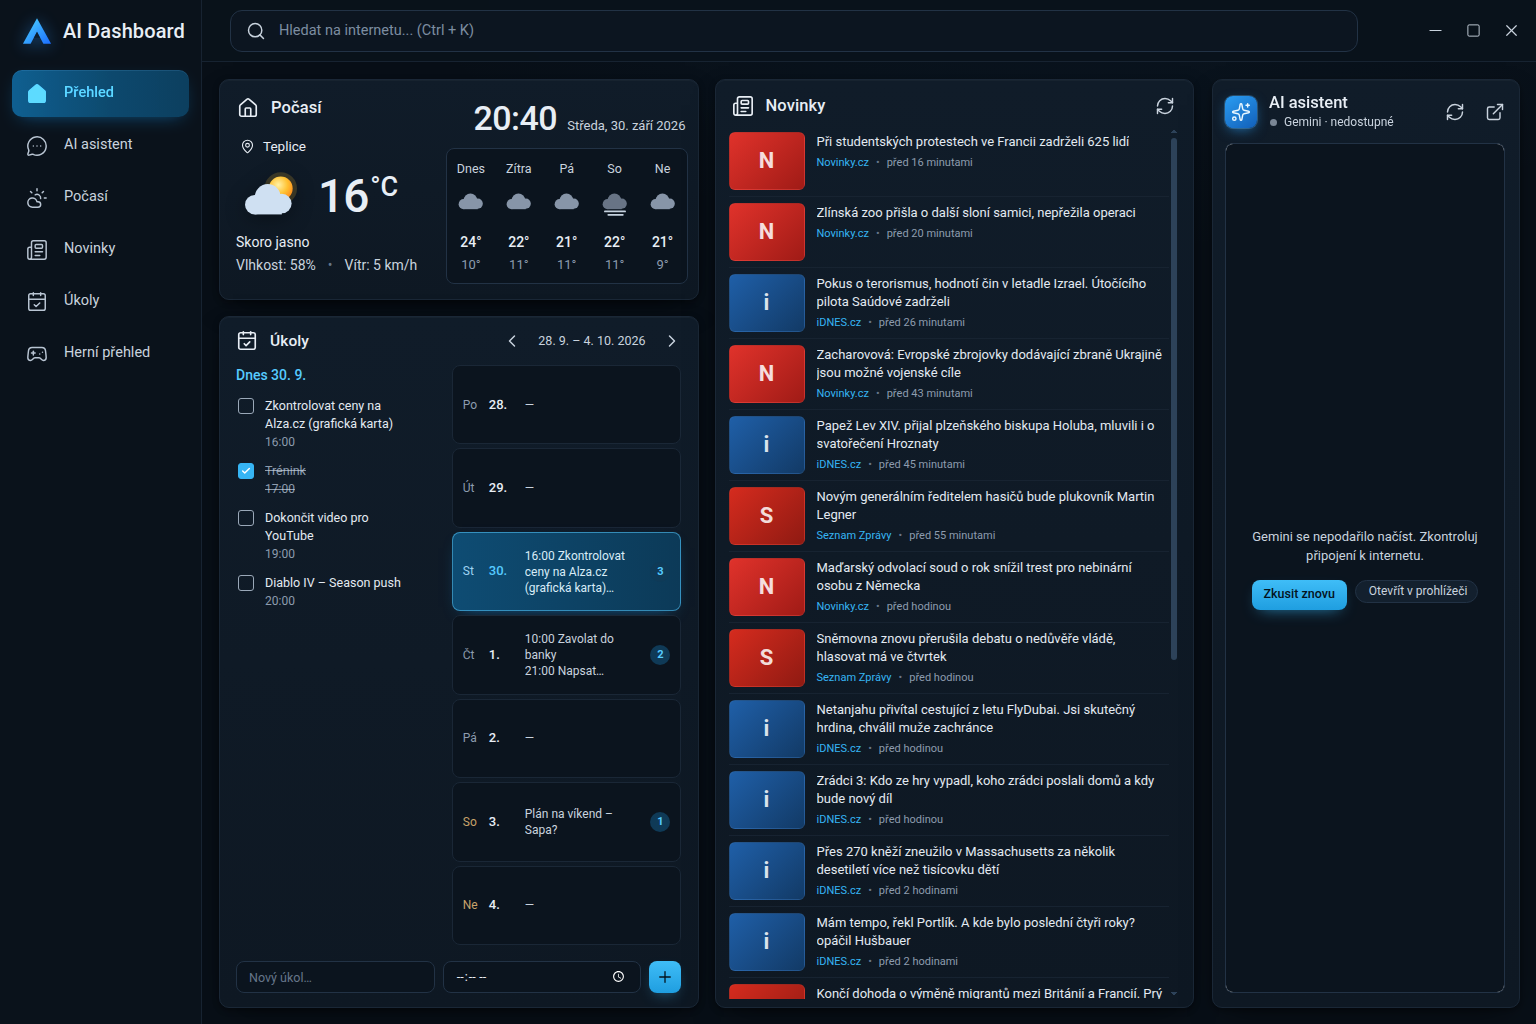
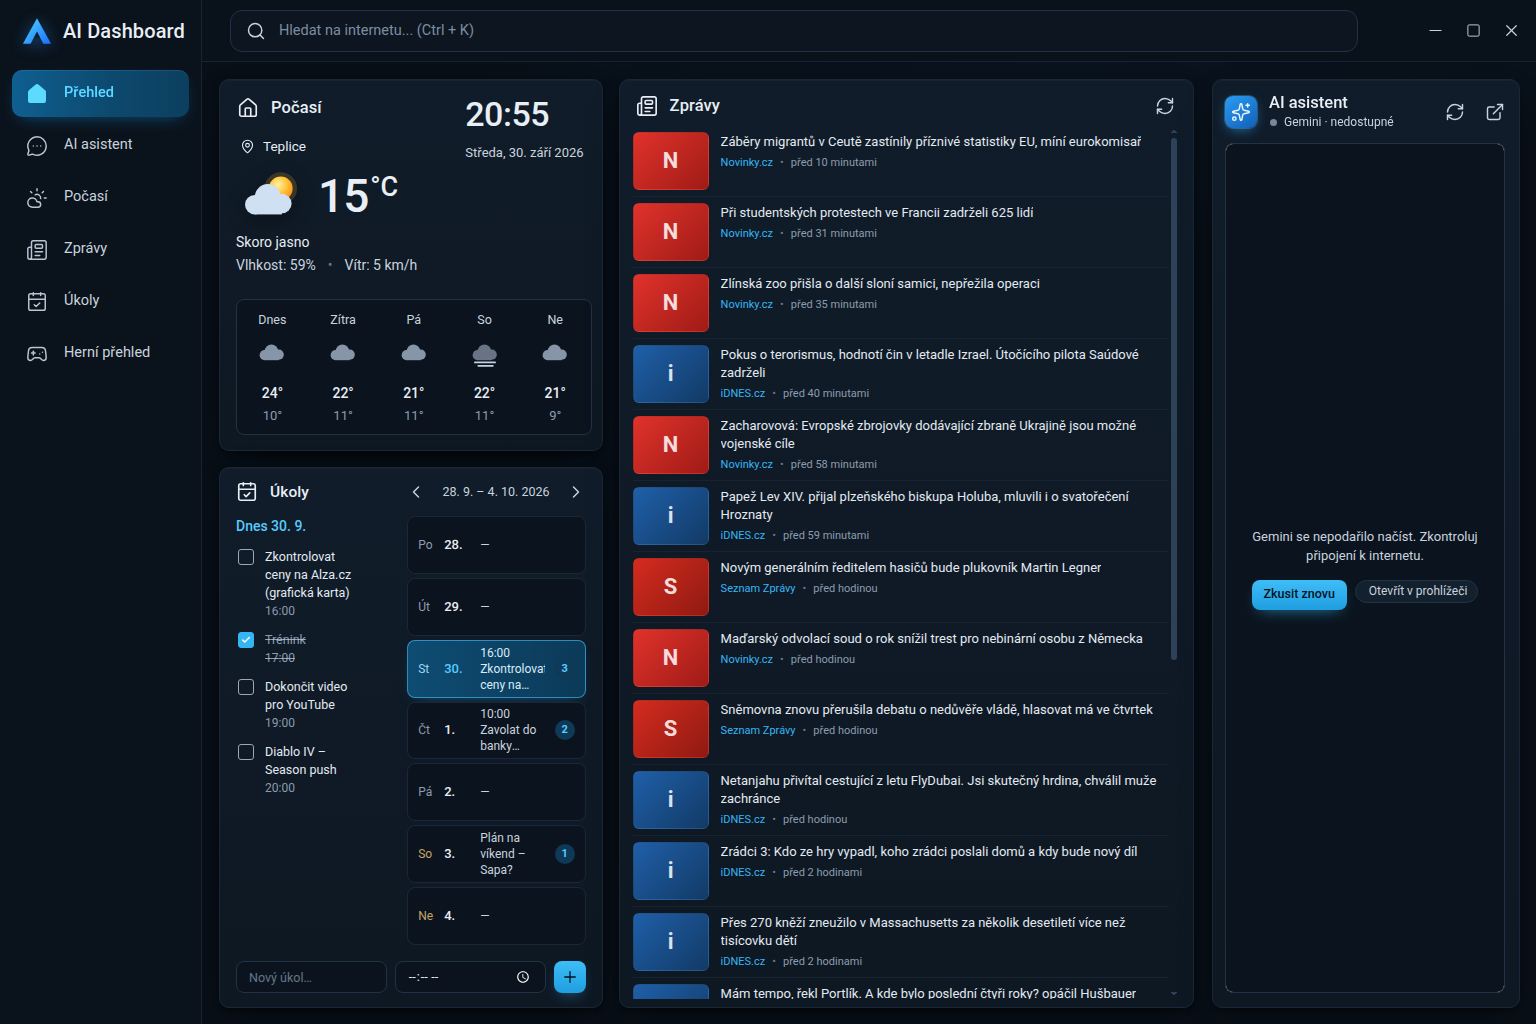
Rename Novinky to Zprávy and widen the news column
- Card title and left menu item now read „Zprávy“.
- Overview columns 2fr : 3fr – weather and tasks narrower, news wider.
- In the narrower weather card the clock sits top-right next to the title.

Claude-Session: https://claude.ai/code/session_01SKftjndGtxnayR8RFE7BFb

Changed region(s): [[0.1562, 0.0938, 0.75, 1.0], [0.0312, 0.2188, 0.0938, 0.25], [0.2812, 0.875, 0.3125, 0.9062]]

diff --git a/index.html b/index.html
@@ -157,7 +157,7 @@
           <li><a class="nav__link is-active" href="#" data-view="overview" aria-current="page"><i data-lucide="house"></i><span>Přehled</span></a></li>
           <li><a class="nav__link" href="#" data-view="assistant"><i data-lucide="message-circle-more"></i><span>AI asistent</span></a></li>
           <li><a class="nav__link" href="#" data-view="weather"><i data-lucide="cloud-sun"></i><span>Počasí</span></a></li>
-          <li><a class="nav__link" href="#" data-view="news"><i data-lucide="newspaper"></i><span>Novinky</span></a></li>
+          <li><a class="nav__link" href="#" data-view="news"><i data-lucide="newspaper"></i><span>Zprávy</span></a></li>
           <li><a class="nav__link" href="#" data-view="tasks"><i data-lucide="calendar-check"></i><span>Úkoly</span></a></li>
           <li><a class="nav__link" href="#" data-view="games"><i data-lucide="gamepad-2"></i><span>Herní přehled</span></a></li>
         </ul>
@@ -242,10 +242,10 @@
           </div>
         </section>
 
-        <!-- Novinky (Seznam Zprávy, Novinky.cz, iDNES.cz – načítá se živě z RSS) -->
+        <!-- Zprávy (Seznam Zprávy, Novinky.cz, iDNES.cz – načítá se živě z RSS) -->
         <section class="card news" aria-labelledby="news-title">
           <header class="card__header">
-            <h2 class="card__title" id="news-title"><i data-lucide="newspaper"></i>Novinky</h2>
+            <h2 class="card__title" id="news-title"><i data-lucide="newspaper"></i>Zprávy</h2>
             <button class="icon-btn icon-btn--sm" type="button" id="news-refresh" aria-label="Obnovit zprávy" title="Obnovit zprávy"><i data-lucide="refresh-cw"></i></button>
           </header>
           <ul class="news__list" id="news-list" aria-busy="true">

diff --git a/styles.css b/styles.css
@@ -288,10 +288,10 @@ i[data-lucide],
   min-width: 0;
 }
 
-/* Přehled: vlevo Počasí + hodiny a pod ním Úkoly, vpravo Novinky přes oba řádky. */
+/* Přehled: vlevo Počasí + hodiny a pod ním Úkoly, vpravo Zprávy přes oba řádky. */
 .dashboard {
   display: grid;
-  grid-template-columns: minmax(0, 1fr) minmax(0, 1fr);
+  grid-template-columns: minmax(0, 2fr) minmax(0, 3fr); /* užší Počasí + Úkoly, širší Zprávy */
   grid-template-rows: auto 1fr;
   grid-template-areas:
     "weather news"
@@ -428,8 +428,19 @@ i[data-lucide],
 
 @container (max-width: 445px) {
   .weather__layout { grid-template-columns: minmax(0, 1fr); }
-  .weather__side { margin-top: 18px; }
-  .weather__clock { justify-content: flex-start; }
+  .weather__side { margin-top: 14px; }
+  /* V úzké kartě jsou hodiny vpravo nahoře vedle nadpisu. */
+  .weather__clock {
+    position: absolute;
+    top: 14px;
+    right: 16px;
+    flex-direction: column;
+    align-items: flex-end;
+    gap: 0;
+    min-height: 0;
+  }
+  .weather__time { font-size: 30px; line-height: 34px; }
+  .weather__date { font-size: 12px; }
 }
 
 /* ---------- Hodiny v kartě Počasí ---------- */

diff --git a/script.js b/script.js
@@ -89,7 +89,7 @@
     if (e.key === "Escape") setNav(false);
   });
 
-  /* ---------- Novinky: Seznam Zprávy, Novinky.cz, iDNES.cz (živě z RSS) ---------- */
+  /* ---------- Zprávy: Seznam Zprávy, Novinky.cz, iDNES.cz (živě z RSS) ---------- */
   const newsList = $("#news-list");
   const newsRefresh = $("#news-refresh");
   let articles = [];

diff --git a/README.md b/README.md
@@ -16,14 +16,14 @@ varování → **Další informace** → **Přesto spustit**.
 
 ## Co funguje „naostro“
 
-- **Levé menu** přepíná pohledy: Přehled, AI asistent (Gemini přes celou šířku), Počasí, Novinky,
+- **Levé menu** přepíná pohledy: Přehled, AI asistent (Gemini přes celou šířku), Počasí, Zprávy,
   Úkoly a Herní přehled (jednotlivé sekce přes celou plochu).
 - **AI asistent** = [Gemini](https://gemini.google.com/app) vložené v pravém panelu (Electron `<webview>`,
   vlastní trvalé úložiště → přihlášení Google účtem vydrží i po restartu). Odkazy z odpovědí se otevírají
   ve výchozím prohlížeči; tlačítka v hlavičce: znovu načíst / otevřít v prohlížeči.
 - **Počasí pro Teplice** živě z Open-Meteo (aktuální stav + předpověď na 5 dní, obnova každých 30 min),
   hodiny a datum v téže kartě.
-- **Novinky** se načítají živě z RSS webů Seznam Zprávy, Novinky.cz a iDNES.cz (každých 15 minut
+- **Zprávy** se načítají živě z RSS webů Seznam Zprávy, Novinky.cz a iDNES.cz (každých 15 minut
   nebo tlačítkem obnovit). Zdroje se střídají a stejná událost z více webů se zobrazí jen jednou
   (porovnání klíčových slov titulku a perexu). Kliknutí otevře článek v prohlížeči.
 - **Úkoly – týdenní kalendář:** dny v týdnu (šipkami se přepíná týden, klik na datum vrátí
@@ -47,7 +47,7 @@ npm run dist         # sestaví portable .exe do složky dist/ (na Windows)
 | `preload.js` | Bezpečný most mezi stránkou a hlavním procesem (`window.desktop`) |
 | `index.html` | Markup dashboardu |
 | `styles.css` | Design tokeny (`:root`), layout, komponenty, stavy hover/active/focus |
-| `script.js` | Pohledy z menu, hodiny, počasí, novinky, týdenní kalendář, Gemini, ovládání okna |
+| `script.js` | Pohledy z menu, hodiny, počasí, zprávy, týdenní kalendář, Gemini, ovládání okna |
 | `assets/img/` | Náhradní (placeholder) SVG obrázky |
 | `vendor/` | Lokální kopie ikon Lucide a písma Roboto |
 | `build/icon.png` | Ikona aplikace |
@@ -55,7 +55,7 @@ npm run dist         # sestaví portable .exe do složky dist/ (na Windows)
 ## Layout
 
 - **Shell:** CSS Grid `sidebar | obsah`, horní lišta je `sticky`.
-- **Přehled:** vlevo Počasí s hodinami a pod ním Úkoly, vpravo Novinky přes celou výšku.
+- **Přehled:** vlevo Počasí s hodinami a pod ním Úkoly, vpravo širší Zprávy přes celou výšku.
 - **Vpravo:** AI asistent (Gemini) na celou výšku okna.
 - **Container queries** přizpůsobují vnitřek karet jejich šířce (předpověď počasí pod teplotu,
   herní karty ve vodorovném posuvníku).
